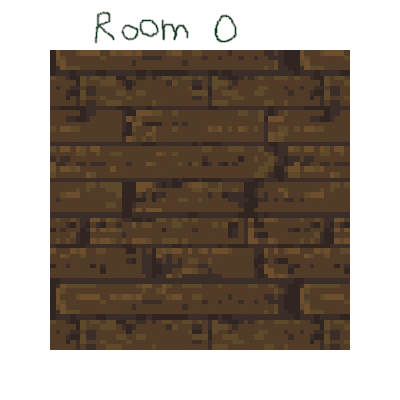
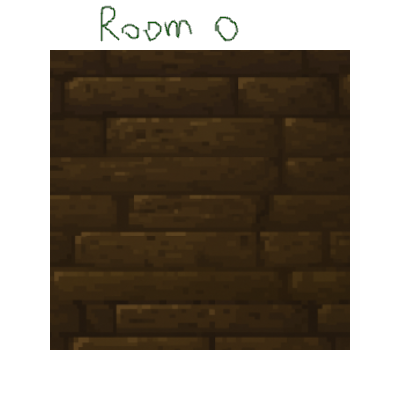
background added... i sense problems

diff --git a/MyPanel.java b/MyPanel.java
@@ -1,3 +1,4 @@
+import javax.imageio.ImageIO;
 import javax.swing.*;
 
 import java.awt.Dimension;
@@ -5,14 +6,18 @@ import java.awt.Graphics;
 import java.awt.KeyEventDispatcher;
 import java.awt.KeyboardFocusManager;
 import java.awt.event.KeyEvent;
+import java.awt.image.BufferedImage;
+import java.io.File;
 import java.io.IOException;
 
 public class MyPanel extends JPanel implements KeyEventDispatcher {
     private Alex alex;
     private long lastFrameTime; // когда последний раз обновлялось
+    private BufferedImage backgroundImage;
 
     public MyPanel() throws IOException {
         this.setPreferredSize(new Dimension(400, 400));
+        this.backgroundImage = ImageIO.read(new File("Room.png"));
         this.alex = new Alex(200, 200); // в зависимости от комнаты (двери в комнате) мб будет появляться в разных местах, а не центре
         this.lastFrameTime = System.currentTimeMillis();
 
@@ -23,6 +28,11 @@ public class MyPanel extends JPanel implements KeyEventDispatcher {
     @Override
     protected void paintComponent(Graphics g) {
         super.paintComponent(g);
+
+        if (backgroundImage != null) {
+            g.drawImage(backgroundImage, 0, 0, getWidth(), getHeight(), null); 
+        }
+
         alex.draw(g);
     }
 

diff --git a/Alex.java b/Alex.java
@@ -64,13 +64,13 @@ public class Alex {
         newX += timeDifference * RunningSpeed * xRunningDirection;
         newY += timeDifference * RunningSpeed * yRunningDirection;
 
-        if (newX >= 50 && newX <= 350) {
+        if (newX >= 50 && newX <= 335) {
             x = newX;
         } else {
             stopRunningX(); 
         }
         
-        if (newY >= 50 && newY <= 350) {
+        if (newY >= 50 && newY <= 325) {
             y = newY;
         } else {
             stopRunningY();

diff --git a/Room.java b/Room.java
@@ -15,11 +15,11 @@ public class Room {
         JFrame frame = new JFrame("Alex Dungeon");
 
         frame.setDefaultCloseOperation(JFrame.EXIT_ON_CLOSE);
-        //frame.setSize(500, 500);
         frame.setLocationRelativeTo(null); // в центре
 
         frame.add(panel);
         frame.pack();
+        frame.setResizable(false);
         frame.setVisible(true);
 
         while (true) {
